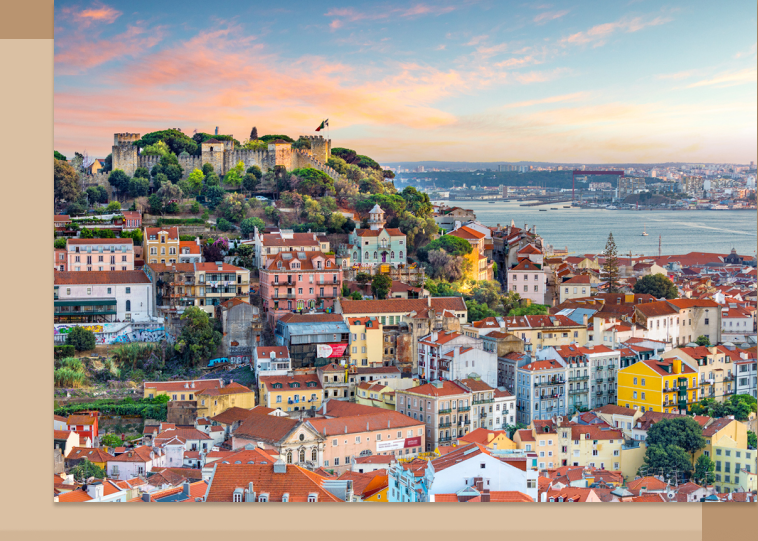
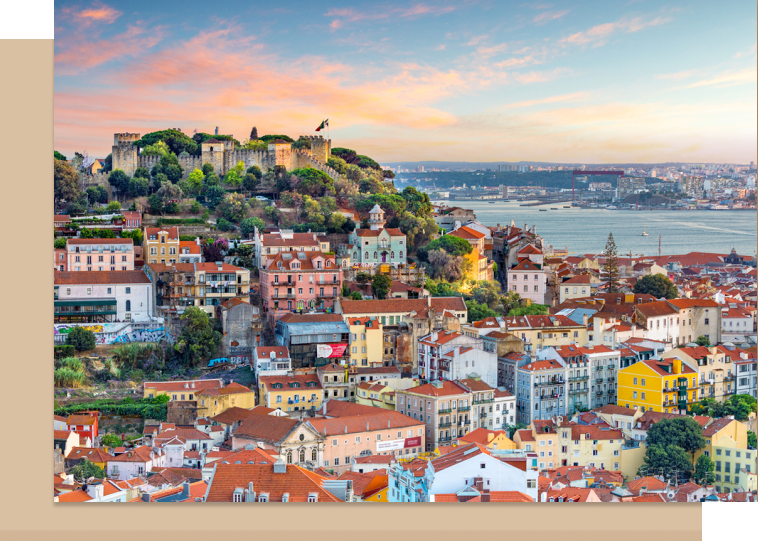
kms

Changed region(s): [[0.9103, 0.9168, 1.0, 1.0], [0.0, 0.0, 0.091, 0.0887]]

diff --git a/src/app/about/page.tsx b/src/app/about/page.tsx
@@ -9,14 +9,15 @@ export default function About() {
     <main className={styles.main}>
       <Hero main={false} page="Sobre Nós" />
       <div className={styles.about}>
+
         <div className={styles.aboutContainer}>
           <img src="/about/info1.png" className={styles.about1IMG} />
 
           <div className={styles.info1Container}>
-            <h2 className={styles.title}>Direto do Centro de Lisboa</h2>
+            <h2 className={styles.title}>Localização</h2>
             <p className={styles.description}>
               Localizado no centro de Lisboa com acesso à grande cultura e gastronomia lisboeta. Adjacente ao castelo de
-              São Jorge, com vista sobre o Tejo.
+              São Jorge, com vista sobre o Tejo. Venha-nos Visitar!
             </p>
             <a className={styles.loc} href="https://maps.app.goo.gl/eVn5T7TDTtBA39Jm9" target="blank">
               Ver Localização
@@ -28,14 +29,16 @@ export default function About() {
           <div className={styles.info2Container}>
             <h2 className={styles.title2}>Valores e Objetivos</h2>
             <p className={styles.description2}>
-              No Grand Tranquil Hotel, temos como objetivo proporcionar-lhe uma experiência marcada pelo confordo e pela
-              tranquilidade através dos nosso serviços. Acreditamos que qualquer um tem direito a experenciar serenidade
-              sem preocupações.
+              No Grand Tranquil Hotel, temos como objetivo proporcionar-lhe uma experiência marcada pelo conforto e pela
+              tranquilidade. Acreditamos que qualquer um tem o direito a experenciar serenidade.
             </p>
             <a className={styles.loc} href="/services/">Ver Serviços</a>
           </div>
           <img src="/about/info1.png" className={styles.about2IMG} />
         </div>
+
+        <div className={styles.line}/>
+
       </div>
       <Footer />
     </main>

diff --git a/src/app/about/about.module.sass b/src/app/about/about.module.sass
@@ -4,20 +4,20 @@
   
     .about
         width: 100%
-        display: flex
-        flex-direction: column
-        justify-content: center
+        padding-top: 15vh
+        padding-bottom: 15vh
         background-image: url('/content-background.png')
-        background-size: contain
+        background-size: 75%
         background-repeat: no-repeat
         background-position: bottom
+        
         .aboutContainer
             display: flex
             align-items: center
+            
 
         .info1Container
-            margin-left: 3vw
-            height: 65vh
+            margin-left: 4vw
 
         .about1IMG
             height: 50vh
@@ -27,8 +27,10 @@
             font-family: Italianno
             color: var(--color-container)
             font-weight: 100
-            height: 4vh
+            line-height: 0vh
             font-size: 6rem
+            margin: 0
+            padding-bottom: 3vh
             
         .description
             font-family: Imbue
@@ -42,7 +44,7 @@
             align-items: center
             justify-content: center
             height: 6vh
-            width: 16vw
+            width: 18vw
             font-family: Cinzel
             font-size: 1.4rem
             color: #563F28
@@ -69,8 +71,8 @@
 
         .info2Container
             margin-left: 10vw
-            height: 65vh
+            height: 75vh
 
         .about2IMG
             height: 50vh
-            margin-left: 3vw
+            margin-left: 4vw

diff --git a/src/app/services/page.tsx b/src/app/services/page.tsx
@@ -26,9 +26,7 @@ export default function Services() {
                   com uma refeição ligeira enquanto descontrai no lindo centro da Cidade de Lisboa.</p>
               </div>
 
-              <div className={styles.divExplore}>
-                  <p className={styles.explorebtn}>Explorar</p>
-              </div>
+              <div className={styles.divExplore}>Explorar</div>
             </div>
           </div>
         </div>
@@ -47,9 +45,7 @@ export default function Services() {
               Lisboa através de ingredientes biológicos regionais.</p>
             </div>
 
-            <div className={styles.divExplore}>
-                <p className={styles.explorebtn}>Explorar</p>
-            </div>
+            <div className={styles.divExplore}>Explorar</div>
           </div>
           <img src="/services/serviceSpa.png" alt="Spa Image" className={styles.spaIMG}/>
           
@@ -71,9 +67,7 @@ export default function Services() {
                 com gráficos e som de alta definição. Venha-se divertir connosco!</p>
               </div>
 
-              <div className={styles.divExplore}>
-                  <p className={styles.explorebtn}>Explorar</p>
-              </div>
+              <div className={styles.divExplore}>Explorar</div>
             </div>
           </div>
         </div>

diff --git a/src/app/services/services.module.sass b/src/app/services/services.module.sass
@@ -61,17 +61,23 @@
             padding-bottom: 8%
 
         .divExplore 
+            font-family: Cinzel
+            font-size: 2vw
+            border: 1px solid black
             background-color: var(--color-primary)
             height: 6vh
             width: 80%
             display: flex
             justify-content: center
             align-items: center
-            margin: auto
+            margin: auto            
 
-        .explorebtn 
-            font-family: Cinzel
-            font-size: 2vw
+        .divExplore:hover
+            background-color: #563F28
+            color: var(--color-primary) 
+            cursor: pointer
+            -webkit-backdrop-filter: blur(5px)
+            border: 1px solid rgba(255, 255, 255, 0.3)
 
         .spa
             justify-content: center

diff --git a/src/app/components/room_card/room_card.module.sass b/src/app/components/room_card/room_card.module.sass
@@ -15,7 +15,8 @@
     .card_info
         display: flex
         flex-direction: column
-        
+        margin-top:1vh
+        margin-left:1vw
         width: 100%
         height: 45%
 
@@ -26,7 +27,8 @@
         .info
             display: flex
             justify-content: left
+            align-items: center
             color: var(--color-text)
 
             h2
-                font-size: 2vh
+                font-size: 1.8vh

diff --git a/README.md b/README.md
@@ -56,3 +56,5 @@ MIT
 > [gmsgarcia.me](https://gmsgarcia.me) &nbsp;&middot;&nbsp;
 > GitHub [@GmsGarcia](https://github.com/GmsGarcia) &nbsp;&middot;&nbsp;
 > GitHub [@dlmpires](https://github.com/dlmpires)
+
+git push origin pires
